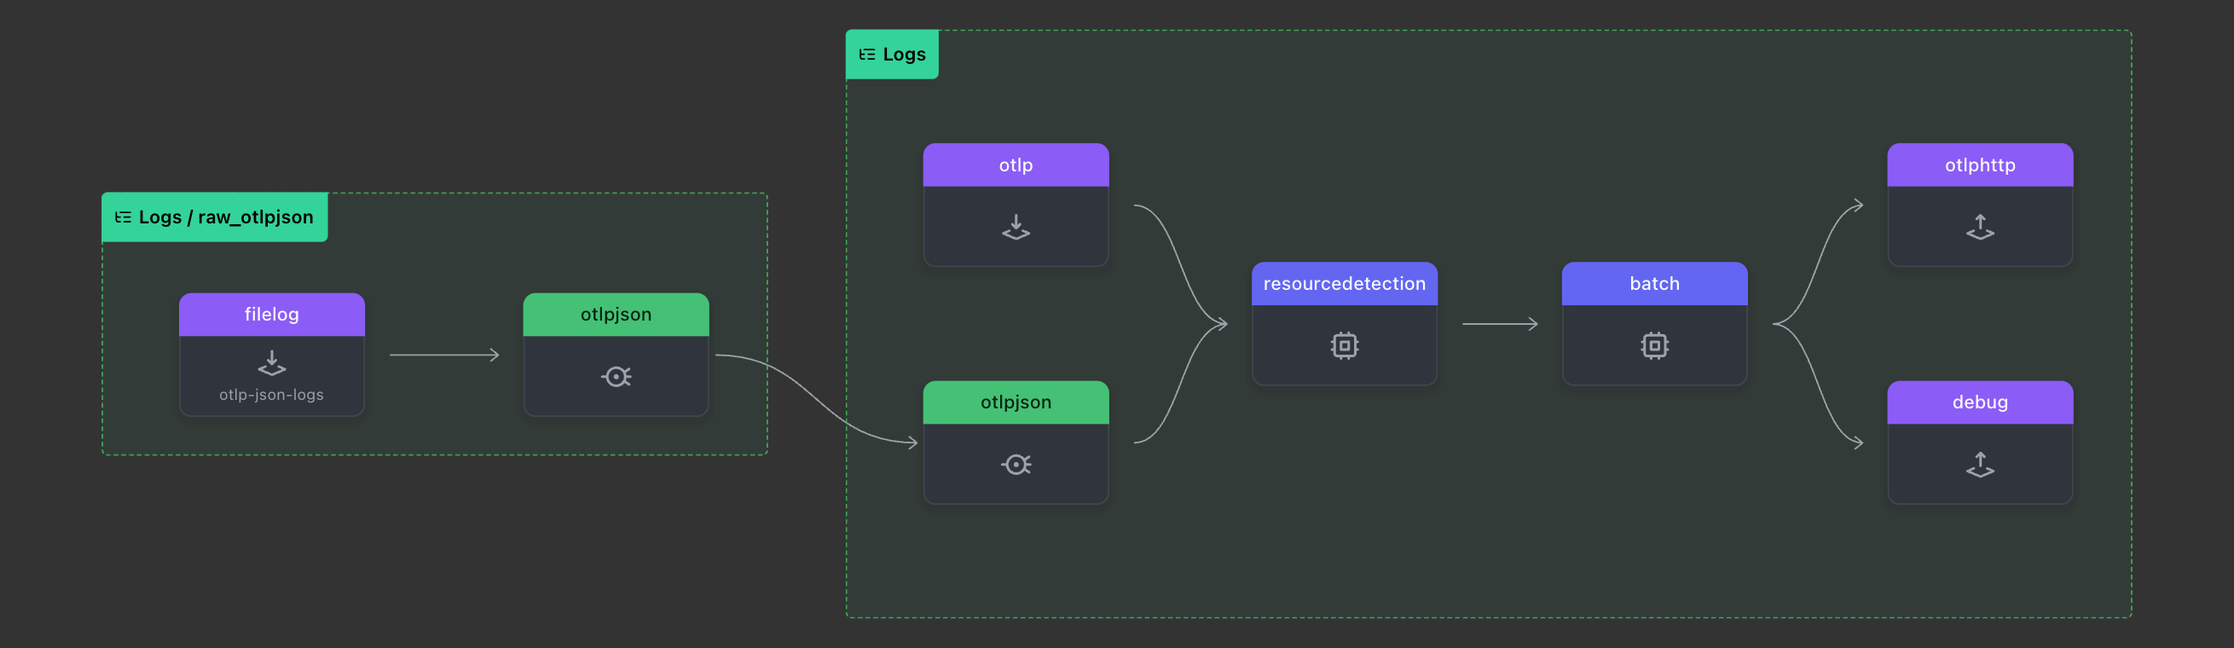
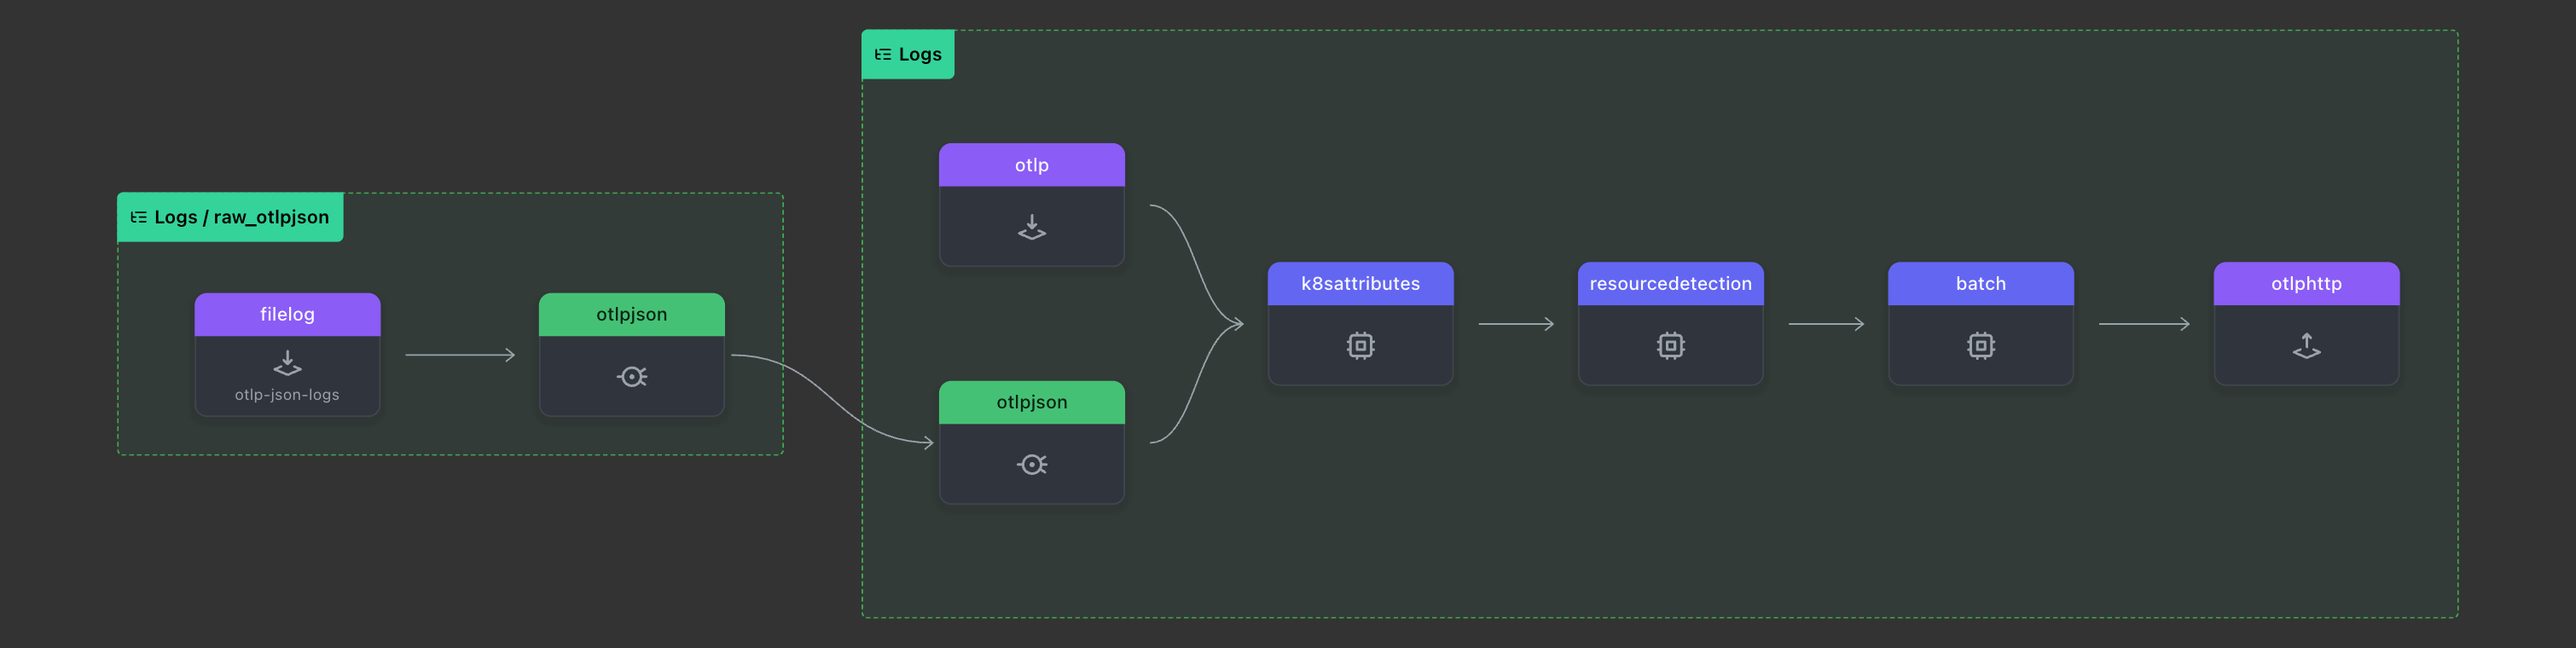
add example for OTLP logging via stdout and k8s

diff --git a/logging-k8s-stdout-otlp-json/README.md b/logging-k8s-stdout-otlp-json/README.md
@@ -15,16 +15,22 @@ This example contains
   [experimental-otlp/stdout](https://github.com/open-telemetry/opentelemetry-specification/blob/main/specification/configuration/sdk-environment-variables.md#in-development-exporter-selection) logs exporter
 - a OTel collector configuration that uses the 
   [OTLP/JSON connector](https://github.com/open-telemetry/opentelemetry-collector-contrib/tree/main/connector/otlpjsonconnector) to turn Pod logs into `OTLP`
-
+    
+## Architecture
 
 ![OTLP/JSON Architecture](otlpjson-architecture.png)
+
+The OTel Collector pipeline:
+
+![OTel Collector Pipeline](otel-collector-otlpjson-pipeline.png)
 
 ## Getting Started
 
 The k8s directory contains the Kubernetes manifests to deploy the application and the collector.
 
-Ignore the `lgtm.yaml` file, which is only used for running locally and automated testing
-using [OATs](https://github.com/grafana/oats).
+Ignore the `lgtm.yaml` file, which is only used for running locally with 
+[LGTM](https://github.com/grafana/docker-otel-lgtm/) 
+and automated testing using [OATs](https://github.com/grafana/oats).
 
 ## Running locally
 
